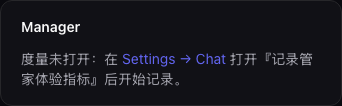
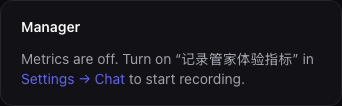
docs: the Manager group's days and caption; screenshots retaken

Changed region(s): [[0.0585, 0.4811, 0.9357, 0.6509], [0.0585, 0.6792, 0.731, 0.8208]]

diff --git a/docs/architecture/agent-system.md b/docs/architecture/agent-system.md
@@ -6612,7 +6612,7 @@ built by `scripts/stage-dashboard.sh` at release time), and it carries
 
 ### Pages
 
-- **Dashboard**: what is happening now, read from `GET /api/overview` every 5 s. A warning names each supervisor component that is not running: "is down" with when it restarts, or "keeps crashing" with its restarts in a row (and, when it is up between crashes, that it counts as stable after 5 minutes); else one muted "All components healthy" line. Task counts by group (In progress, Ready, Needs attention, Completed, and Cancelled or Other when they hold a task), each opening the Tasks page on that group (`#tasks?group=<group>`). "Agents running now": a table of the agent runs going on now (`live_runs`: a Manager's or a Planner's turn, a Worker's, a Reviewer's, a consult's or the processor's run, in that order) and the Worker and Reviewer runs "waiting" for room under their task's limit; each row has the role (a Manager's name; the id of the role its task's Planner defined that it runs as), its task and, for a Worker or Reviewer, its step, its runtime and model, the pid of the process serving it, how long it has run, and its TPM, linking to its agent history. TPM is the tokens of the run's usage events in the last 60 s, all four kinds (input, output, cache read, cache write; the breakdown on hover); a runtime that reports usage only when a turn ends (Codex, Coco, Cursor: `RuntimeAdapter.streams_usage` false) shows "—". The header has the total TPM of all agents, runs that ended within the minute included. It is kept in memory: a restart starts empty, and a resumed run's replay is not counted again. The Managers without a row are named below the table: busy ones (before their turn's run starts: the runtime starting, a session switch) and idle ones (between turns). "Manager": the Manager's turns and proactive messages from `manager_metrics.get`, read on its own every 60 s over 24 h or 7 d (the choice kept in the browser): ack and first-reply P50 with P95, empty deliveries (count, share and the turns they are out of), proactive messages per day with the 30-minute reply rate, the latest 7 days by source and the reply rate by source; "—" for what was not measured. With `manager.metrics.enabled` off it says so, with a link to Settings → Chat (its "记录管家体验指标" box); a failed read shows its error in the group only. "Running by project": for each project with a task in progress or ready, its running and ready tasks and its running Workers and Reviewers, with the waiting ones (a project has no limits), then how many projects are idle. "Schedules", when there is one: how many are enabled, the next 5 fires in their own zones, the failing schedules (failures in a row or an alert active, with the last run's status and the last success) and today's skipped runs by reason, each linking to its row on the project's Schedules tab. "Today's spend": the runs started since the server's local midnight, provider-priced (money) apart from the subscription equivalent (not billed), and the runs that ended without a cost.
+- **Dashboard**: what is happening now, read from `GET /api/overview` every 5 s. A warning names each supervisor component that is not running: "is down" with when it restarts, or "keeps crashing" with its restarts in a row (and, when it is up between crashes, that it counts as stable after 5 minutes); else one muted "All components healthy" line. Task counts by group (In progress, Ready, Needs attention, Completed, and Cancelled or Other when they hold a task), each opening the Tasks page on that group (`#tasks?group=<group>`). "Agents running now": a table of the agent runs going on now (`live_runs`: a Manager's or a Planner's turn, a Worker's, a Reviewer's, a consult's or the processor's run, in that order) and the Worker and Reviewer runs "waiting" for room under their task's limit; each row has the role (a Manager's name; the id of the role its task's Planner defined that it runs as), its task and, for a Worker or Reviewer, its step, its runtime and model, the pid of the process serving it, how long it has run, and its TPM, linking to its agent history. TPM is the tokens of the run's usage events in the last 60 s, all four kinds (input, output, cache read, cache write; the breakdown on hover); a runtime that reports usage only when a turn ends (Codex, Coco, Cursor: `RuntimeAdapter.streams_usage` false) shows "—". The header has the total TPM of all agents, runs that ended within the minute included. It is kept in memory: a restart starts empty, and a resumed run's replay is not counted again. The Managers without a row are named below the table: busy ones (before their turn's run starts: the runtime starting, a session switch) and idle ones (between turns). "Manager": the Manager's turns and proactive messages from `manager_metrics.get`, read on its own every 60 s over 24 h or 7 d (the choice kept in the browser): ack and first-reply P50 with P95, empty deliveries (turns that delivered no reply: count, share and the turns they are out of), proactive messages per day with the 30-minute reply rate, every local day the window touches (today and 1 or 7 days back, a day without messages shown as 0) by source, and the reply rate by source; "—" for what was not measured. With `manager.metrics.enabled` off it says so, with a link to Settings → Chat (its "记录管家体验指标" box); a failed read shows its error in the group only. "Running by project": for each project with a task in progress or ready, its running and ready tasks and its running Workers and Reviewers, with the waiting ones (a project has no limits), then how many projects are idle. "Schedules", when there is one: how many are enabled, the next 5 fires in their own zones, the failing schedules (failures in a row or an alert active, with the last run's status and the last success) and today's skipped runs by reason, each linking to its row on the project's Schedules tab. "Today's spend": the runs started since the server's local midnight, provider-priced (money) apart from the subscription equivalent (not billed), and the runs that ended without a cost.
 - **Chat history API**: The dashboard reads targets, sessions and messages and saves messages through the operator-only `POST /api/v1/operator_chat/{targets,sessions,messages,save_message}` operations. Database read failures return typed `unavailable` rather than empty history; save failures return `unavailable` rather than claiming persistence succeeded. Client-owned `chat.*` and Telegram/Lark delivery are unchanged.
 - **Chat**: Every agent and its messages, finished ones included. The selector lists the global Manager and the 30 most recent tasks; each task shows its one Planner and the Worker (and Reviewer, when reviewed) of each step. You can send to the Manager and to a running task's Planner, which keeps one thread per task; SSE streaming. A selected Planner also shows its Claude runs, one per turn, in a folded list of the latest 10 beside its activity and chat thread, re-read as a reply starts and ends and every 10 s while the task runs. A Worker or Reviewer shows its Claude runs read-only, following a running one live, and points to its task's Planner for sending. The Manager's chat has a "New session" button that sends `/new`. Its message box stays usable while the Manager replies: Enter queues the message in a staging area above the box (up to 20; the Edit button or ↑ pulls them back into the box, ahead of what is typed), and once a reply ends as `answered` the queued messages go as one message joined by a blank line; after a failed, stopped or confirm reply they go back into the box instead, and they survive a reload (kept per chat in `sessionStorage`). ↑ and ↓ in the box walk the thread's earlier messages (the latest 100, adjacent duplicates collapsed). Esc, or the Stop button that replaces Send while the box is empty, calls `POST /api/chat/stop`; typing `/stop` and Enter does the same. When the Manager's runtime cannot interrupt a reply (`can_interrupt` false), the Stop button shows disabled with "This runtime cannot interrupt a reply." and Esc does nothing. After a reload the page asks `GET /api/chat/turn` whether a reply is still running. A planner's chat has the queue and the history but no Stop. Beside the Manager, a list shows its conversations on every channel (`POST /api/v1/operator_chat/sessions`), grouped as Dashboard chat, loopercli (conversations an API client opened, with the client's name), Lark and Telegram, each the most recently active first, with its last message's start, sender and time and its message count; it is re-read every 10 s and after each answer, and a failed read shows its error. Picking a dashboard chat opens it as the web chat thread; picking a Lark or Telegram conversation shows its newest messages read-only, with their times and no message box, re-read every 10 s, and says when only the newest 200 of more are shown; an answer its channel did not deliver says so under it, with the channel's reason. Below the md breakpoint the list opens from a button in the header.
 - **Tasks**: Task list, newest first, 50 at a time with Load more ("Showing N of M"; the newest page is re-read every 3 s and the older pages loaded stay below it), with project and status filters (several chips at once, listed in the address in chip order, for example `status=init,running,waiting,waiting_user,pending`; with neither `status` nor `group` nor `schedule` the page shows Ready, Running, Waiting, Waiting for you and Pending, and `status=all` shows every task; a single value such as `status=failed` still selects that one filter; `Ready` is ready tasks; `Running` covers tasks whose Planner is planning, executing, verifying or winding down, including the assigned and running statuses; `POST /api/v1/tasks/page` takes `statuses`, one to ten of the same filter names, and returns their union, or `status` for one name, not both; counts stay per filter and count every task under the other filters), time display, each task's cost so far, a "Scheduled" badge linking to the schedule that created the task (with "continues the schedule's Planner session" on the detail page when `continues_schedule_session` is true), Start/Stop/Delete controls; a ready task is labelled "Ready — not started" and its Start (here and on its detail page) calls `POST /api/tasks/:id/start`. On a stopped, failed or cancelled task, Start (here and on its detail page) goes on from its saved plan, and Start over, after an inline confirm, plans it anew (`POST /api/tasks/start` with `start_over`). `#tasks?project=<id>` filters by a project and shows its name and default directory with a link to its project page; `#tasks?group=<group>` lists one task group, shown as a chip that clears it, `#tasks?schedule=<id>` one schedule's tasks, shown as a chip too. With no `status`, a group or a schedule lists every task in it; an explicit `status` still narrows that list. A project link keeps the unfinished default. A new task picks an existing project or creates one in the same form; its work directory may stay empty when the project has a default. A task's detail view can move it to another project in any status.
